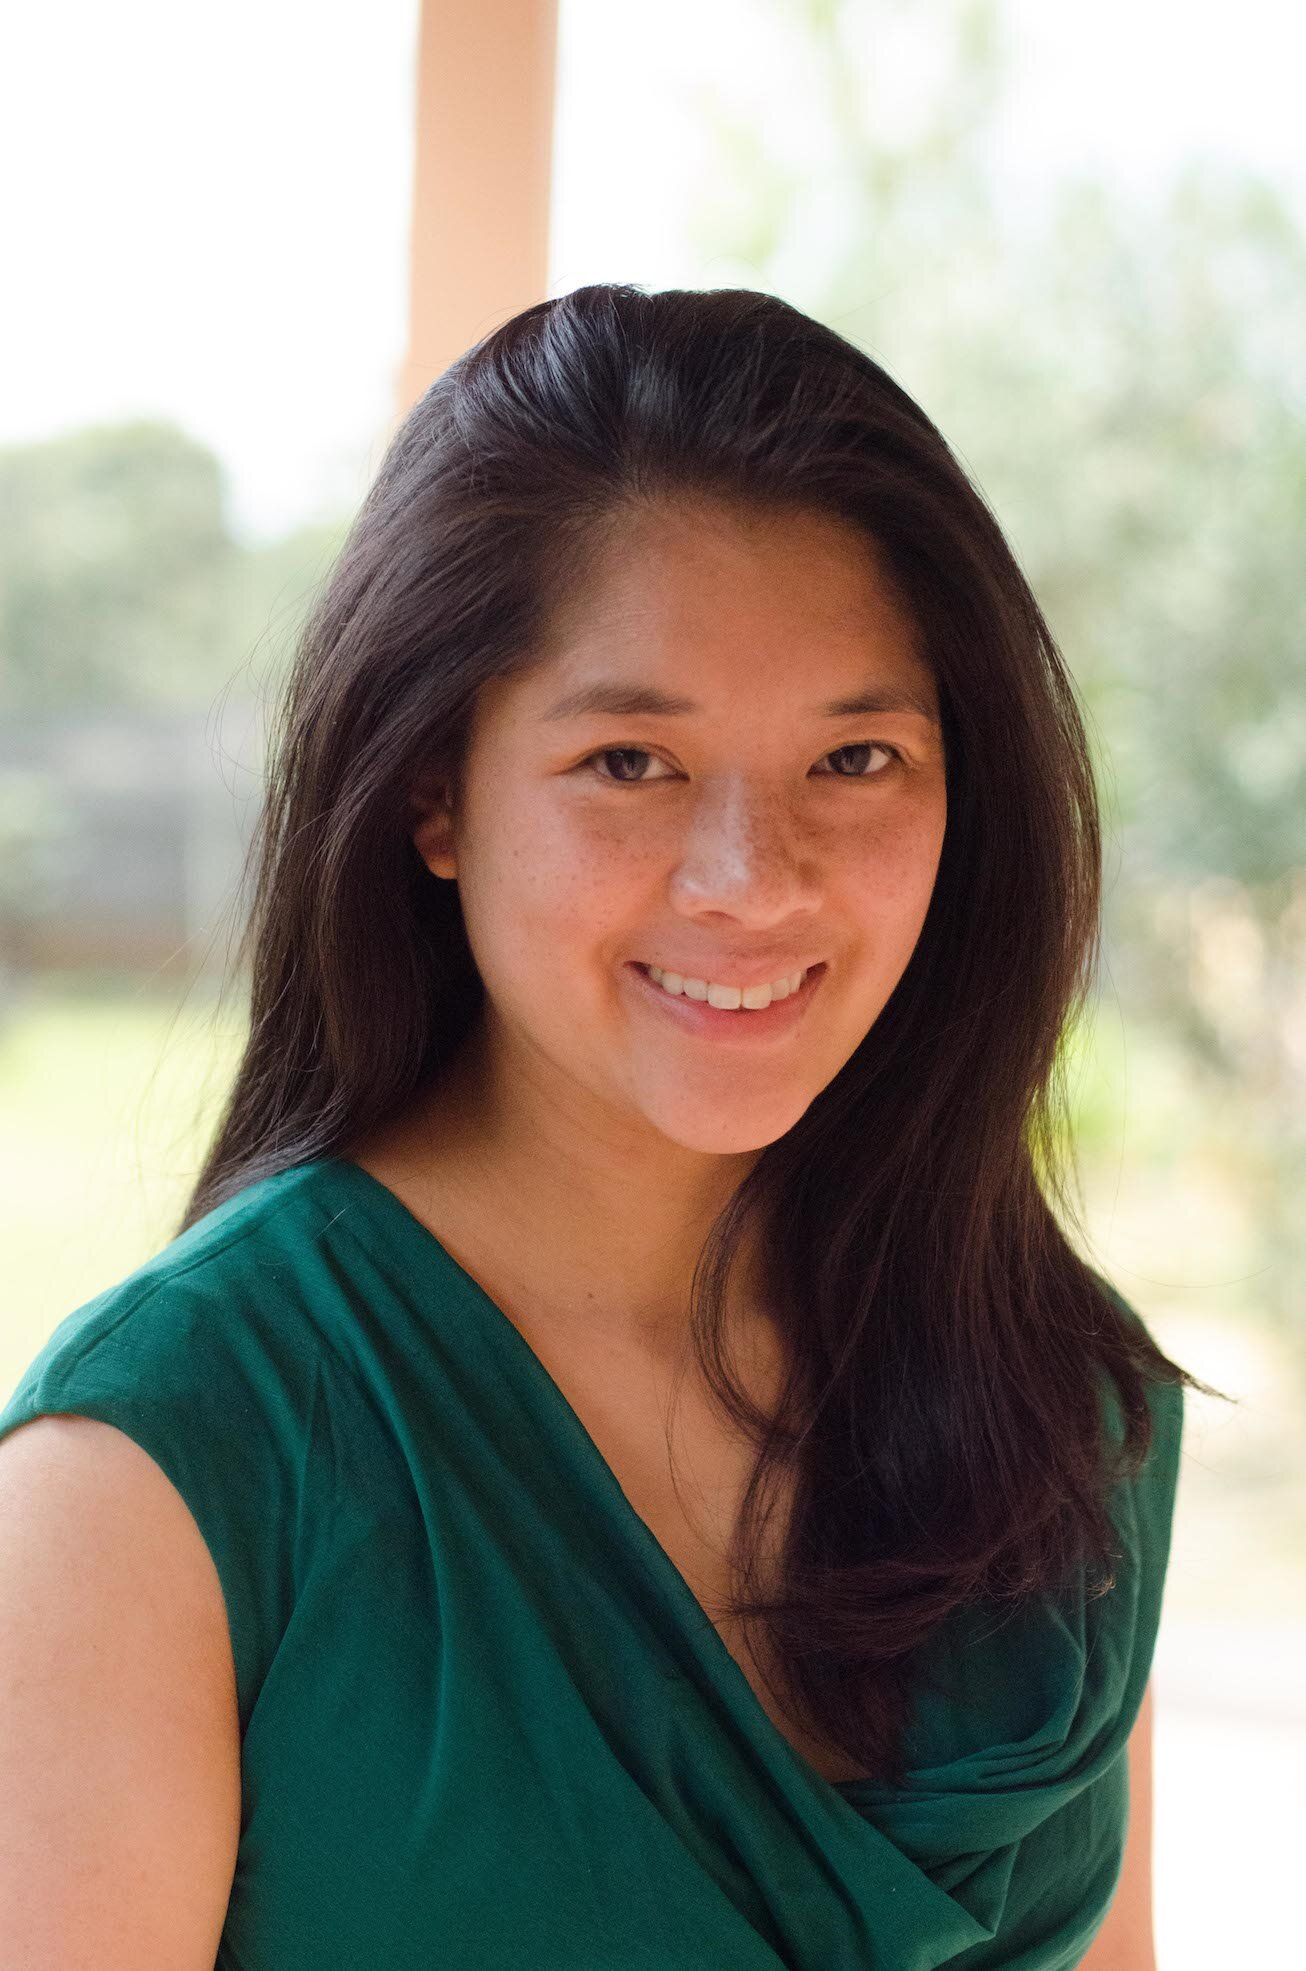
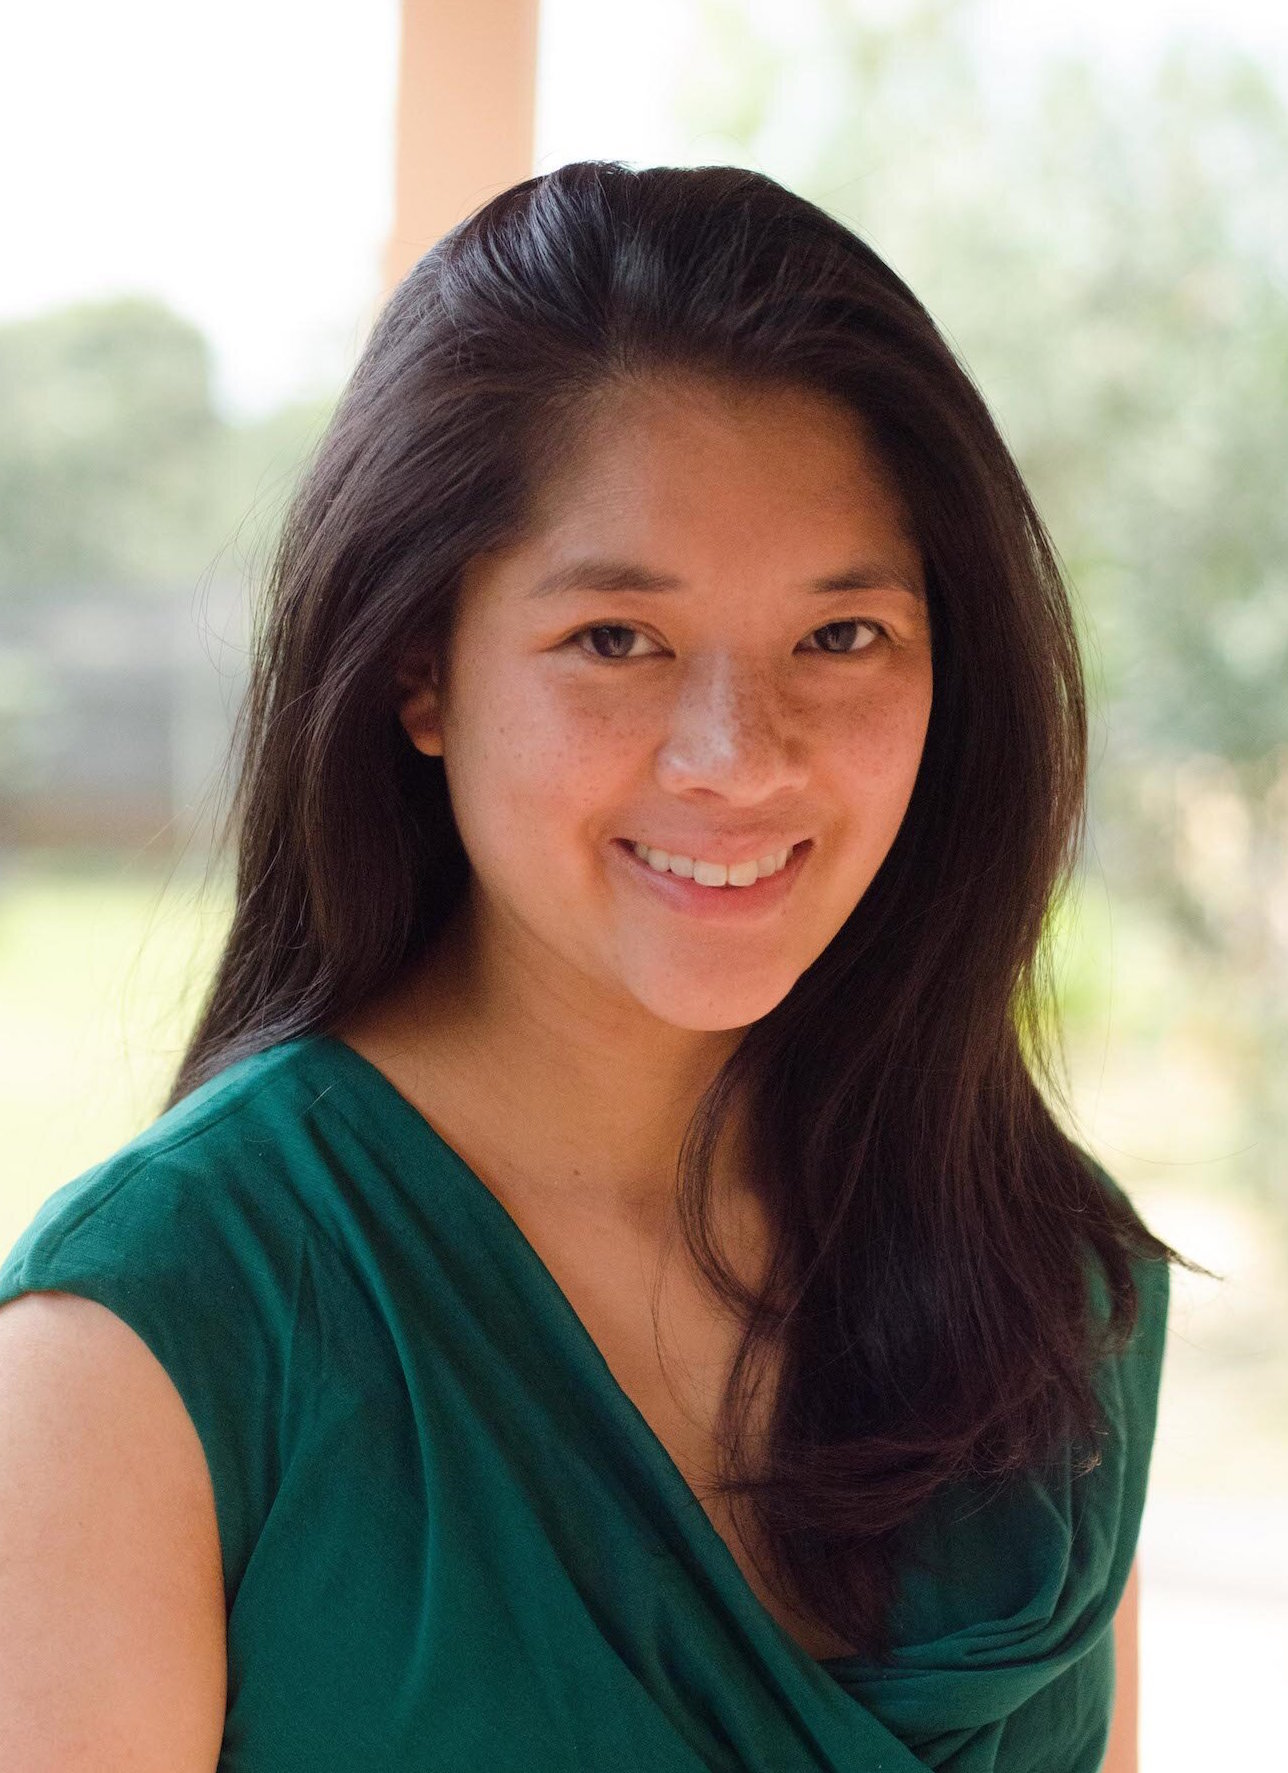
bio

diff --git a/aboutus.html b/aboutus.html
@@ -117,7 +117,7 @@ Although you can use them, for a more unique website, replace these images with 
             <div class="row">
 
                <div class="col-sm-6" >
-                <img class="img-responsive img-circle center-block" src="Doan.jpg" alt="" width="180px" height="200px" >
+                <img class="img-responsive img-circle center-block" src="Doan.jpg" alt="" style="width:220px; height:280px;" >
                 </div>
                 <div class="col-sm-6">
                     <h2 class="section-header">Principal Investigator</h2>
@@ -136,7 +136,7 @@ Although you can use them, for a more unique website, replace these images with 
             <div class="row">
 
                <div class="col-sm-6" >
-                <img class="img-responsive img-circle center-block" src="cindy.jpg" alt="" width="180px" height="200px" >
+                <img class="img-responsive img-circle center-block" src="cindy.jpg" alt="" style="width:200px; height:280px;" >
                 </div>
                 <div class="col-sm-6">
                     <h2 class="section-header">Principal Investigator</h2>
@@ -152,7 +152,7 @@ Although you can use them, for a more unique website, replace these images with 
                  <div class="row">
                 <div class="col-sm-6">
 
-              <img class="img-responsive img-circle center-block" src="mell.jpg" alt="" style="width:220px;height:250px;">
+              <img class="img-responsive img-circle center-block" src="mell.jpg" alt="" style="width:210px;height:280px;">
               </div>
 
                 <div class="col-sm-6">
@@ -172,7 +172,7 @@ Although you can use them, for a more unique website, replace these images with 
                  <div class="container">
                  <div class="row">
                  <div class="col-sm-6">
-                   <img class="img-responsive img-circle center-block" src="kaki.JPG" alt="" style="width:220px;height:250px;">
+                   <img class="img-responsive img-circle center-block" src="kaki.JPG" alt="" style="width:210px;height:280px;">
                 </div>
                 <div class="col-sm-6">
                     <h2 class="section-header">Research Analyst </h2>
@@ -189,7 +189,7 @@ Although you can use them, for a more unique website, replace these images with 
                  <div class="container">
                  <div class="row">
                  <div class="col-sm-6">
-                   <img class="img-responsive img-circle center-block" src="kaz.jpeg" alt="" style="width:220px;height:250px;" >
+                   <img class="img-responsive img-circle center-block" src="kaz.jpeg" alt="" style="width:220px;height:280px;" >
                 </div>
                 <div class="col-sm-6">
                     <h2 class="section-header">Research Analyst </h2>
